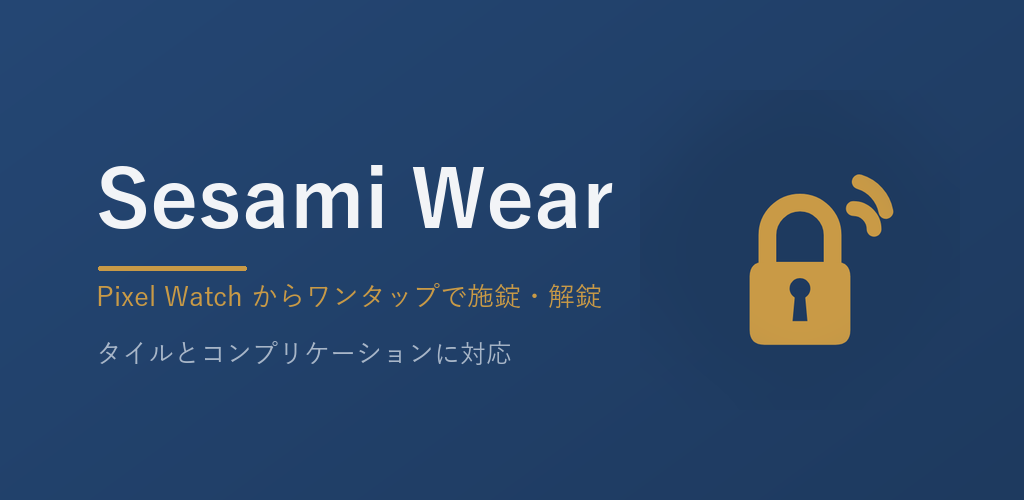
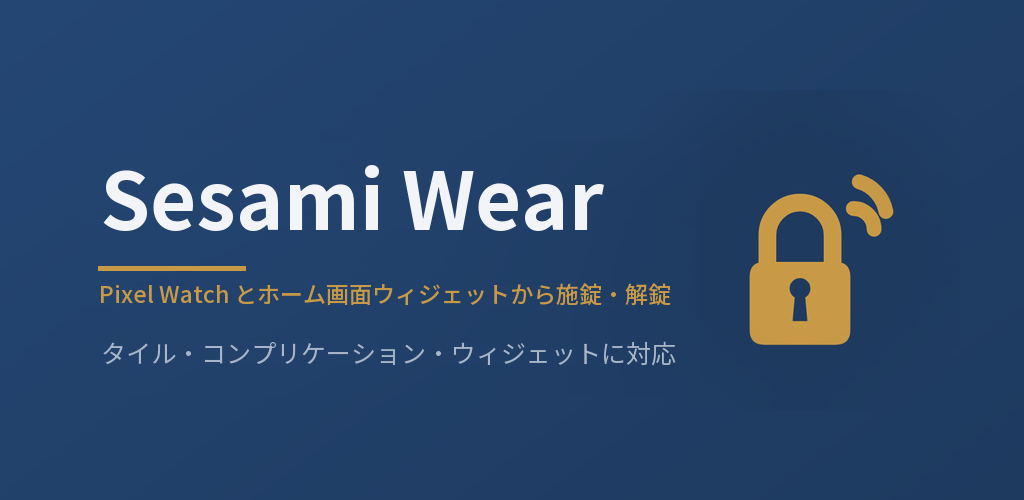
docs: 🖼 ストア掲載アセットを0.11.0の内容へ更新しスクショ撮影手順をスキル化する

diff --git a/.claude/skills/store-screenshot-capture/SKILL.md b/.claude/skills/store-screenshot-capture/SKILL.md
@@ -1,0 +1,160 @@
+---
+name: store-screenshot-capture
+description: Google Play ストア掲載用のスクリーンショットを、実機ではなく Android エミュレータで撮影して `docs/store/images/screenshots/` へ反映するための手順。エミュレータの起動とウィンドウ位置の矯正、ステータスバーを時刻と電池だけに整える SystemUI デモモード、ダミー資格情報とモック API で施錠/解錠の表示を作る手順、`input text` が文字を落とす原因（スタイラス手書きのチュートリアル割り込み）とその無効化、Pixel Launcher の ANR への対処、Play Console の比率要件に合わせる 9:16 レターボックス加工（帯色 `#1E3A5F`）、撮影後のドキュメント更新と後始末までを含む。「ストアのスクショを撮り直して」「掲載画像を更新して」「スクリーンショットをエミュレータで撮って」「アセット画像が古い」等、掲載アセットの更新を伴う依頼で参照する。実機を使う検証そのものは `realmachine-verification`、adb 接続の落とし穴は `adb-device-connection` が正本で、本スキルは掲載用スクリーンショットの撮影と加工だけを扱う。
+---
+
+# ストア掲載スクリーンショットの撮影手順（エミュレータ）
+
+Google Play のスマートフォン用スクリーンショットは、**実機ではなくエミュレータで撮る**のを既定とする
+（2026-09-18 にユーザーが決定）。実機は Play 版と実資格情報が入っており、撮影のために状態を
+作り替えられない。エミュレータなら実 Sesame・実資格情報を使わずに任意の状態を作れ、
+デバイス名のモザイク処理も不要になる。
+
+Wear OS 用は Wear のシステムイメージが入っていないためエミュレータでは撮れない。ウォッチ側の
+表示を変えたときだけ Pixel Watch 2 の実機で撮る（`realmachine-verification` の第4節）。
+
+## 0. 撮り直しの要否を先に判定する
+
+**全点を撮り直す前に、変更が表示へ影響したかを差分で確かめる。** 影響しない画面は撮り直さない
+（Wear OS 用6点は 2026-09-18 時点でこの判定により据え置いた）。
+
+```bash
+# 前回の撮影コミット以降に、その画面を描くファイルが変わったか
+git log --oneline --since=<前回撮影日> --name-only -- mobile/src/main/ wear/src/main/ | grep -E "\.kt$" | sort -u
+```
+
+- リファクタ（文言・色の移設など）は表示不変のことが多い。**文字列リテラルを抽出して突き合わせる**と
+  確証が得られる。
+
+  ```bash
+  git show <commit>^:<旧ファイル> | grep -oE '"[^"]{2,}"' | sort -u > /tmp/old.txt
+  grep -rhoE '"[^"]{2,}"' <新ファイル群> | sort -u > /tmp/new.txt
+  comm -23 /tmp/old.txt /tmp/new.txt   # 空なら文言は不変
+  ```
+
+- 新機能を追加したリリースでは、**その機能の画面が1枚も無いこと**が最大の欠落になりやすい
+  （0.11.0 ではウィジェットの画像が無いまま掲載文だけ先に更新されていた）。
+
+## 1. エミュレータを起動する
+
+AVD は `nocompanion`（Pixel 6 相当、1080x2400、Android 15）を流用する。作り方は
+`docs/INSTALL.md`「1.7」が正本。
+
+```bash
+/c/Android/sdk/emulator/emulator.exe -avd nocompanion -no-boot-anim -gpu swiftshader_indirect
+```
+
+- **`$TMPDIR` は空になることがある。** リダイレクト先はスクラッチパッドの絶対パスで書く。
+- 起動待ちは until ループをバックグラウンドで回す。
+
+  ```bash
+  until [ "$(adb -s emulator-5554 shell getprop sys.boot_completed 2>/dev/null | tr -d '\r')" = "1" ]; do sleep 5; done
+  ```
+
+- **ウィンドウが画面外へ出ることがある。** 利用者が画面を見られないので、中央へ寄せる。
+
+  ```powershell
+  Add-Type -AssemblyName System.Windows.Forms
+  # user32.dll の GetWindowRect / MoveWindow を P/Invoke し、ProcessName -match 'qemu' の
+  # MainWindowHandle を作業領域の中央へ移動する（高さは作業領域 - 40 に丸める）
+  ```
+
+- **ウォッチや実機が同時に繋がっていることがある。** 以降のコマンドは必ず `-s emulator-5554` を付ける。
+
+## 2. 撮影前に端末を整える
+
+```bash
+E="adb -s emulator-5554"
+# ステータスバーを時刻と電池だけにする
+$E shell settings put global sysui_demo_allowed 1
+$E shell am broadcast -a com.android.systemui.demo -e command enter
+$E shell am broadcast -a com.android.systemui.demo -e command clock -e hhmm 0930
+$E shell am broadcast -a com.android.systemui.demo -e command battery -e level 100 -e plugged false
+$E shell am broadcast -a com.android.systemui.demo -e command notifications -e visible false
+# スタイラス手書きのチュートリアルが入力へ割り込むのを止める（第3節）
+$E shell settings put secure stylus_handwriting_enabled 0
+```
+
+## 3. ダミー資格情報を入れる（`input text` の落とし穴）
+
+デバッグ版をモック API 付きで入れる。`10.0.2.2` がホストPCを指す。
+
+```bash
+python scripts/mock-sesame-api.py &
+ANDROID_SERIAL=emulator-5554 ./gradlew :mobile:installDebug -PsesameApiBaseUrl=http://10.0.2.2:8080/api/sesame2
+```
+
+入力時に実際に踏んだ問題と対処:
+
+- **スタイラスのチュートリアル（"Try out your stylus"）が入力中に割り込み、文字が途中で落ちる。**
+  `Front Door` が `Fr`、uuid が `11111` で止まる形で現れた。第2節の
+  `stylus_handwriting_enabled 0` を**入力を始める前に**設定する。踏んだ場合は `pm clear` して
+  最初からやり直す（中途半端に入った値を消すより速い）。
+- **`input text` に日本語は入らない。** 表示名は ASCII にする。`Entrance` / `Garage` のように
+  **スペースを含まない1単語**にすると、`%s` のエスケープ（`Front%sDoor`）も不要で確実。
+- **1フィールドずつ、間に端末側の `sleep` を挟む。** ホスト側の `sleep` は使えないため
+  `$E shell "sleep 1"` と書く。まとめて送ると取りこぼす。
+- **入力のたびにスクリーンショットで実際に入った文字列を確認する。** uuid はモックのログと
+  突き合わせる必要があるので、実際に入った文字列を採用する。
+- **キーボードが出るとフォームが上へ詰まる。** 座標は毎回スクリーンショットから測り直す
+  （縮小して確認したときは、縮小率で割って実座標に戻す）。
+
+## 4. 画面を撮る
+
+```bash
+adb -s emulator-5554 exec-out screencap -p > shots/<名前>.png
+```
+
+- **swiftshader のエミュレータは重く、Pixel Launcher が ANR を出す。** 「Pixel Launcher isn't
+  responding」が出たら `Wait` をタップし、以降の操作の間隔を広げる。撮影対象の画面には影響しない。
+- **アプリ起動直後はスプラッシュが出る。** `am force-stop` → 起動のあと 8〜10 秒待ってから撮る。
+  フォーカス枠（直前に触った入力欄の紫枠）を消したいときも、この再起動が最も確実。
+- **ウィジェットは未設定のものが残っていればタップするだけで設定画面が開く。** 新規に置く場合は
+  ホーム長押し → Widgets → ドラッグ＆ドロップ（`input draganddrop`）。タップでは置けない。
+- **状態表示（施錠中/解錠中）はモック API で作る。** デバイス名部分のタップで状態取得、
+  右側のタップで施錠/解錠。モックのログ（`GET ... -> locked` / `POST ... cmd=83 -> unlocked`）が
+  撮影内容の裏付けになる。
+- **デバッグ版でも `(debug)` は掲載画像に写らない。** `app_name` / `widget_label` の上書きが出るのは
+  ランチャーとウィジェットピッカーだけで、アプリ内画面とウィジェット本体には出ない。
+  **ランチャーとウィジェットピッカーは撮らない。**
+- ホーム画面を撮ると Google 製アプリのアイコンとドックが写る。ウィジェットを見せる以上避けられず、
+  掲載上の問題も無いのでそのまま使う。
+
+## 5. Play Console の比率へ加工する
+
+Play Console は縦横比に上限があり、1080x2400（9:20）のままでは弾かれうる。**内容を切らずに
+左右へ背景色の帯を足して 9:16 にする。**
+
+```python
+BAND = (30, 58, 95)                    # #1E3A5F。既存の掲載画像と同じ帯色
+tw = round(h * 9 / 16)                 # 2400 -> 1350
+canvas = Image.new("RGB", (tw, h), BAND)
+canvas.paste(im, ((tw - w) // 2, 0))
+```
+
+- 保存先は `docs/store/images/screenshots/`。ファイル名の番号が **Play Console へ投入する順序**に
+  なるので、訴求したい順（新機能 → 操作 → 設定 → 補助画面）に振る。
+- **差し替えで不要になった旧ファイルは削除する。** Play Console 側も旧画像を消してから入れ直す。
+
+## 6. 撮影後にやること
+
+- `docs/store/README.md` の内訳表（ファイル名・内容・サイズ）と、撮影方法・撮影日の記述を更新する。
+  モザイクの有無や撮影環境が変わったら、その説明も書き換える。
+- `docs/store/STORE_LISTING.md`「スクリーンショット」の枚数・撮影環境を更新する。
+- `BACKLOG.md` の配信タスクへ「掲載アセットの差し替えも Play Console の作業に含む」ことを追記する。
+  画像を更新しただけでは掲載は変わらない。
+- `CHANGELOG.md` へ記録する（コード修正を伴わないため `EXECUTE.md` は更新しない）。
+- 後始末: モックサーバーを停止し、エミュレータを落とす（`adb -s emulator-5554 emu kill`）。
+  デバッグ版を実機へ入れていた場合は `pm uninstall com.sesamiwear.mobile.debug`（**Play 版
+  `com.sesamiwear.mobile` は消さない**）。ウォッチに Tile を追加していたら
+  `--es operation remove-tile` で外してからアンインストールする。
+
+## やってはいけないこと
+
+- 変更が表示へ影響したか確かめずに、全点を撮り直す（あるいは古いまま放置する）。
+- 実機の Play 版で撮ろうとする（実資格情報・実デバイス名が写り、操作すると実際の鍵が動く）。
+- ランチャーやウィジェットピッカーを撮る（`Sesami Wear (debug)` が写る）。
+- `input text` の結果を確認せずに次のフィールドへ進む。
+- 1080x2400 のまま Play Console へ投入する（比率で弾かれうる）。
+- 画像だけ差し替えて `docs/store/README.md` の内訳表を古いままにする。
+- 撮影後にモックサーバー・エミュレータ・デバッグ版を残したまま完了報告する。

diff --git a/docs/store/README.md b/docs/store/README.md
@@ -11,15 +11,19 @@ Google Play Console へ提出する掲載情報を、このディレクトリで
 | [PRIVACY_POLICY.md](PRIVACY_POLICY.md) | 収集する情報・保存方法・送信先・削除方法 | プライバシーポリシーURL、データ安全性の申告根拠 |
 | [images/play_store_icon_512.png](images/play_store_icon_512.png) | 512x512 PNG（アルファチャンネルなし） | アプリアイコン |
 | [images/play_feature_graphic_1024x500.png](images/play_feature_graphic_1024x500.png) | 1024x500 24bit PNG（アルファなし） | 機能グラフィック |
-| [images/screenshots/](images/screenshots/) | スマートフォン用2枚・Wear OS用6枚 | スクリーンショット |
+| [images/screenshots/](images/screenshots/) | スマートフォン用6枚・Wear OS用6枚 | スクリーンショット |
 
 `images/screenshots/` の内訳は次のとおりです。ファイル名の接頭辞がPlay Consoleの投入先の枠に
 対応します（スマートフォン用とWear OS用は別の枠です）。
 
 | ファイル | 内容 | サイズ |
 | --- | --- | --- |
-| `phone_1_credentials.png` | 資格情報の設定画面（登録済みデバイス一覧と追加フォーム） | 1683x2992 |
-| `phone_2_help.png` | 値の取得方法を案内するヘルプダイアログ | 1683x2992 |
+| `phone_1_widget_locked.png` | ホーム画面ウィジェット（施錠中、タップで解錠） | 1350x2400 |
+| `phone_2_widget_unlock_confirm.png` | ウィジェットからの解錠確認ダイアログ | 1350x2400 |
+| `phone_3_widget_unlocked.png` | ホーム画面ウィジェット（解錠中、タップで施錠） | 1350x2400 |
+| `phone_4_widget_config.png` | ウィジェットの操作対象を選ぶ画面（全デバイス／個別） | 1350x2400 |
+| `phone_5_credentials.png` | 資格情報の設定画面（登録済みデバイス一覧と追加フォーム） | 1350x2400 |
+| `phone_6_help.png` | ヘルプのメニュー（値の取得方法・デモ・ウォッチ・ウィジェット） | 1350x2400 |
 | `wear_1_complication.png` | ウォッチフェイスのコンプリケーション（施錠状態の表示） | 384x384 |
 | `wear_2_tile_locked.png` | タイル（全施錠中、タップで全解錠） | 384x384 |
 | `wear_3_tile_unlocked.png` | タイル（全解錠中、タップで全施錠） | 384x384 |
@@ -27,15 +31,22 @@ Google Play Console へ提出する掲載情報を、このディレクトリで
 | `wear_5_unlock_confirm.png` | 解錠時の確認画面（キャンセル／全解錠） | 384x384 |
 | `wear_6_device_select.png` | 操作対象デバイスの選択画面 | 384x384 |
 
-- スマートフォン用は実機（Pixel 8 Pro）の1344x2992を、内容を切らずに左右へ背景色の帯を足して
-  16:9へ整えたものです。Play Consoleは縦横比の上限があり、実解像度のままでは弾かれる可能性が
-  あるためです。
-- 登録済みデバイスの表示名は、公開を避けるため画像上でモザイク処理しています。
-- ファイル名の番号はPlay Consoleへ投入する順序に対応します。Wear OS用は「状態表示 → タイルの
+- スマートフォン用はAndroidエミュレータ（AVD `nocompanion`、Pixel 6相当、1080x2400）の画面を、
+  内容を切らずに左右へ背景色の帯（`#1E3A5F`）を足して9:16へ整えたものです。Play Consoleは
+  縦横比の上限があり、実解像度のままでは弾かれる可能性があるためです。
+- 表示名は実在しないダミー（`Entrance` / `Garage`）を登録して撮影しているため、モザイク処理は
+  不要です（2026-09-06版の実機撮影ではモザイクを掛けていました）。施錠・解錠の状態は
+  モックAPI（`scripts/mock-sesame-api.py`）で作っており、実Sesameデバイス・実資格情報は
+  使っていません。
+- ファイル名の番号はPlay Consoleへ投入する順序に対応します。スマートフォン用は「ウィジェットの
+  状態表示 → 操作の確認 → 設定 → 資格情報 → ヘルプ」、Wear OS用は「状態表示 → タイルの
   各状態 → 操作の確認 → 設定」の流れで並べています。
-- 2026-09-06に全点を撮り直しました。タイルの文言の省略・折り返しの改善（BL-102）と、
-  スマートフォンのシステムバーのアイコンを暗色にした修正（BL-103）を反映済みです。解錠状態と
-  解錠確認画面は、実際にSesame実機を解錠して撮影しています（撮影後に施錠へ戻しています）。
+- スマートフォン用は2026-09-18に全点を撮り直しました。0.11.0のホーム画面ウィジェット（BL-121〜
+  BL-123）を追加し、ヘルプのメニュー化（BL-113）とウィジェット項目の追加（BL-124）を反映して
+  います。
+- Wear OS用の6点は2026-09-06撮影のものを継続利用します。以降のwear側の変更は文言・色のcoreへの
+  移設（BL-119、表示は不変）と、登録0台のときだけ出るデモ説明文の折り返し修正（BL-114）だけで、
+  この6点の画面には影響しないことを差分で確認済みです。
 
 リリースごとの「このリリースの新機能」欄の文面は、このディレクトリではなく
 [../RELEASE_NOTES.md](../RELEASE_NOTES.md) の各バージョンの「ストア掲載用の要約」で管理します。
@@ -103,6 +114,10 @@ https://github.com/filderschoice/sesami-wear/blob/main/docs/store/PRIVACY_POLICY
 3. `npx markdownlint-cli2 "**/*.md"` を実行します。
 4. Play Consoleへ転記し、反映日を各ファイルの「最終更新日」へ記録します。
 5. プライバシーポリシーを変更した場合は、データ安全性の申告内容に影響がないかもあわせて確認します。
+6. スクリーンショットを撮り直す場合は、Androidエミュレータで撮影します（手順はスキル
+   `store-screenshot-capture`）。実機のPlayストア版では実資格情報と実デバイス名が写り、
+   操作すると実際の鍵が動くため使いません。Wear OS用だけは、ウォッチ側の表示を変えたときに
+   Pixel Watch 2の実機で撮り直します。
 
 ## 関連ドキュメント
 

diff --git a/CHANGELOG.md b/CHANGELOG.md
@@ -7,6 +7,33 @@
 - コード修正1件ごとの実施記録: [docs/records/managed/EXECUTE.md](docs/records/managed/EXECUTE.md)
 - 本ファイル: 上記以外（運用ルール、ドキュメント構成、ガードレールの変更）
 
+## 2026-09-18（ストア掲載アセットを0.11.0の内容へ更新、BL-127）
+
+機能グラフィックとスマートフォン用スクリーンショットが0.10.0時点の内容だったため更新しました。
+撮影はAndroidエミュレータ（AVD `nocompanion`）で行い、ダミー資格情報とモックAPIで状態を作って
+います（実Sesameデバイス・実資格情報は使用していません）。コード修正は伴いません。
+
+- `docs/store/images/play_feature_graphic_1024x500.png`
+  - 文言を「Pixel Watch とホーム画面ウィジェットから施錠・解錠」「タイル・コンプリケーション・
+    ウィジェットに対応」へ差し替え。背景グラデーションと鍵アイコンは元画像のまま使用。
+- `docs/store/images/screenshots/`
+  - スマートフォン用を6枚へ刷新（ウィジェットの施錠中・解錠確認・解錠中・対象選択、資格情報設定、
+    ヘルプメニュー）。旧 `phone_1_credentials.png` / `phone_2_help.png` は削除。
+  - Wear OS用6枚は据え置き。BL-119は文言・色のcoreへの移設で表示は不変、BL-114のデモ説明文の
+    修正は登録0台のときだけ出る画面のため、この6点には影響しないことを差分で確認。
+- `docs/store/README.md` / `docs/store/STORE_LISTING.md`
+  - スクリーンショットの内訳・サイズ（1350x2400）・撮影方法（モザイク不要のダミー名）を更新。
+- `docs/records/managed/BACKLOG.md`
+  - BL-127へ掲載アセットの差し替えもPlay Consoleの作業へ含める旨を追記。
+- `.claude/skills/store-screenshot-capture/SKILL.md`
+  - 掲載用スクリーンショットをエミュレータで撮る手順をスキル化（今後の既定）。撮り直しの要否を
+    差分で判定する方法、SystemUIデモモードでのステータスバー整形、`input text` が文字を落とす原因
+    （スタイラス手書きのチュートリアル割り込み）と無効化、9:16レターボックス加工、後始末を含む。
+- `.claude/skills/realmachine-verification/SKILL.md`
+  - 掲載用スクリーンショットの撮影は対象外であることと、上記スキルへの参照を追記。
+- `docs/store/README.md`
+  - 「更新手順」へスクリーンショット撮り直し時の参照先（エミュレータで撮る旨）を追加。
+
 ## 2026-09-18（0.11.0をクローズドテストの両トラックで公開、BL-127）
 
 0.11.0（`versionCode 6 / 1004`）がクローズドテストの電話・タブレット系トラックと

diff --git a/docs/records/managed/BACKLOG.md b/docs/records/managed/BACKLOG.md
@@ -45,7 +45,12 @@
     詳細な説明）の Play Console への転記と反映後の STORE_LISTING.md の注記削除、
     androidx.fragment:fragment の警告消失の確認、テスター数の維持確認、募集先（Qiita記事・X）
     への反映。ストア掲載情報はリリースと同じ送信へ混ぜず、リリース公開後に別送信で出す
-    （差し戻し時にアプリ更新の配信まで止まるため）。Play Console 側の作業手順とチェックリストは
+    （差し戻し時にアプリ更新の配信まで止まるため）。2026-09-18 に掲載アセットも更新済みで、
+    機能グラフィックの文言をウィジェット対応へ差し替え、スマートフォン用スクリーンショットを
+    エミュレータで6枚撮り直した（ウィジェットの施錠中・解錠確認・解錠中・対象選択、資格情報設定、
+    ヘルプメニュー）。これらも同じ送信で Play Console へ差し替える。アプリアイコンと Wear OS 用
+    スクリーンショット6枚は現行のままでよい（アイコンの図柄は未変更、wear 側の変更は表示に
+    影響しないことを差分で確認済み）。Play Console 側の作業手順とチェックリストは
     docs/store/PLAY_CONSOLE_STEPS.local.md の「次回の作業（BL-127）」へ記載した。
   優先度: P2
   状態: 進行中

diff --git a/.claude/skills/realmachine-verification/SKILL.md b/.claude/skills/realmachine-verification/SKILL.md
@@ -142,6 +142,9 @@ adb -s <ウォッチ> shell input swipe 350 192 60 192 200  # 画面は 384x384
 
 ## 5. スマホ側の UI 自動操作
 
+ストア掲載用のスクリーンショット撮影は本スキルの対象外で、実機ではなくエミュレータで行う
+（`store-screenshot-capture` が正本）。以下は検証時の操作についての注意。
+
 - **ウィジェットの設置はタップではなくドラッグ＆ドロップ。** ウィジェット選択画面でプレビューを
   タップしても何も起きない。`adb shell input draganddrop <x1> <y1> <x2> <y2> 2500` で
   ホーム画面へ落とすと、設定 Activity（対象デバイス選択）が開く。

diff --git a/docs/store/STORE_LISTING.md b/docs/store/STORE_LISTING.md
@@ -106,6 +106,6 @@ Markdownを解釈しないため、転記時は見出し・箇条書きの記法
 
 ## スクリーンショット
 
-実機（Pixel 8 Pro / Pixel Watch 2）で撮影したものを
-[images/screenshots/](images/screenshots/) に用意済みです。内訳と加工内容は
+スマートフォン用6枚（Androidエミュレータ、2026-09-18撮影）とWear OS用6枚（Pixel Watch 2実機、
+2026-09-06撮影）を [images/screenshots/](images/screenshots/) に用意済みです。内訳と加工内容は
 [README.md](README.md)「ファイル一覧」を参照してください。
